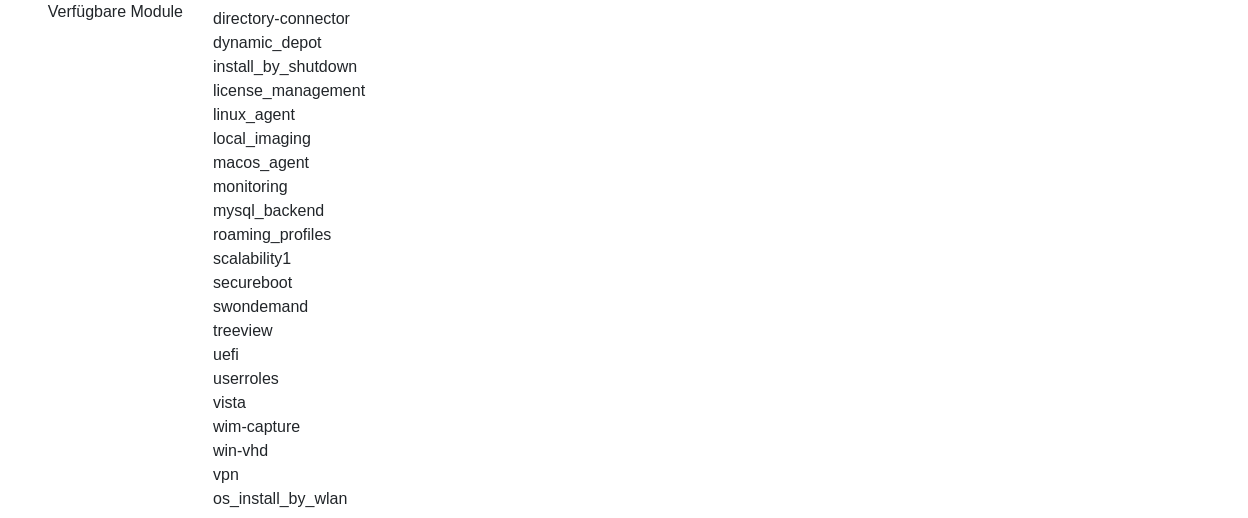
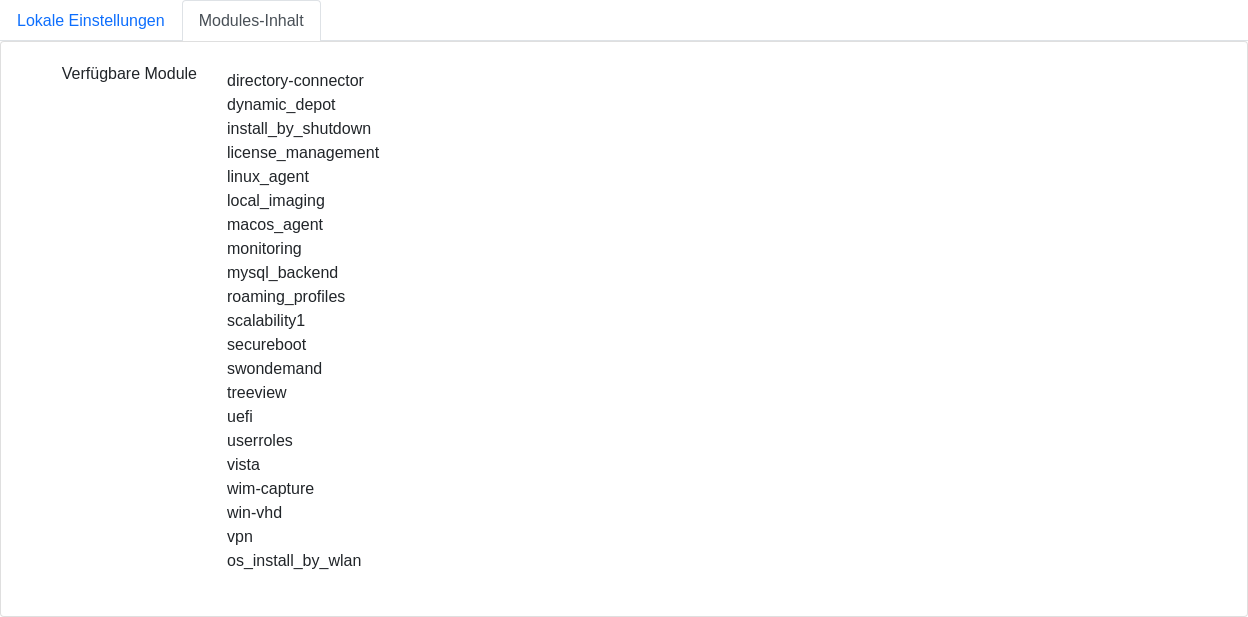
[chg] update opsi specific settings
Former-commit-id: 4b52c54a195441cb343072c94bac7e7d5c297b86

Changed region(s): [[0.0312, 0.0927, 0.3125, 0.9266], [0.0, 0.9575, 1.0, 1.0], [0.0, 0.0, 0.2812, 0.0927]]

diff --git a/opsiweb/scripts/take_screenshots4Doc.test.js b/opsiweb/scripts/take_screenshots4Doc.test.js
@@ -209,27 +209,27 @@ test.describe('Manage', () => {
   //   await page.evaluate((val) => { document.querySelector('.dependency').innerHTML = val }, de['title.dependencies'])
   //   await component.screenshot({ path: './screenshots/de/opsiweb_productproperties.png' })
   // })
-  test('Product Dependencies', async ({ page }) => {
-    await callStoryId(page, 'view-v-product-property', 'v-product-property')
-    await page.click('.nav-tabs .nav-link:not(.active)')
-    await (new Promise(resolve => setTimeout(resolve, 1000)))
-    const component = await page.locator('[data-testid="VProductProperty"]')
-    await page.setViewportSize({ width: 1280, height: 350 })
-    await page.evaluate((val) => { document.querySelector('.nav-title').innerHTML = val }, en['title.config'])
-    await page.evaluate((val) => { document.querySelector('.property').innerHTML = val }, en['title.properties'])
-    await page.evaluate((val) => { document.querySelector('.dependency').innerHTML = val }, en['title.dependencies'])
-    await page.evaluate((val) => { document.querySelector('.required').innerHTML = val }, en['table.fields.required'])
-    await page.evaluate((val) => { document.querySelector('.type').innerHTML = val }, en['table.fields.requiredType'])
-    await page.evaluate((val) => { document.querySelector('.tdtype').innerHTML = val }, en['table.fields.pre-required'])
-    await component.screenshot({ path: './screenshots/en/opsiweb_productdependencies.png' })
-    await page.evaluate((val) => { document.querySelector('.nav-title').innerHTML = val }, de['title.config'])
-    await page.evaluate((val) => { document.querySelector('.property').innerHTML = val }, de['title.properties'])
-    await page.evaluate((val) => { document.querySelector('.dependency').innerHTML = val }, de['title.dependencies'])
-    await page.evaluate((val) => { document.querySelector('.required').innerHTML = val }, de['table.fields.required'])
-    await page.evaluate((val) => { document.querySelector('.type').innerHTML = val }, de['table.fields.requiredType'])
-    await page.evaluate((val) => { document.querySelector('.tdtype').innerHTML = val }, de['table.fields.pre-required'])
-    await component.screenshot({ path: './screenshots/de/opsiweb_productdependencies.png' })
-  })
+  // test('Product Dependencies', async ({ page }) => {
+  //   await callStoryId(page, 'view-v-product-property', 'v-product-property')
+  //   await page.click('.nav-tabs .nav-link:not(.active)')
+  //   await (new Promise(resolve => setTimeout(resolve, 1000)))
+  //   const component = await page.locator('[data-testid="VProductProperty"]')
+  //   await page.setViewportSize({ width: 1280, height: 350 })
+  //   await page.evaluate((val) => { document.querySelector('.nav-title').innerHTML = val }, en['title.config'])
+  //   await page.evaluate((val) => { document.querySelector('.property').innerHTML = val }, en['title.properties'])
+  //   await page.evaluate((val) => { document.querySelector('.dependency').innerHTML = val }, en['title.dependencies'])
+  //   await page.evaluate((val) => { document.querySelector('.required').innerHTML = val }, en['table.fields.required'])
+  //   await page.evaluate((val) => { document.querySelector('.type').innerHTML = val }, en['table.fields.requiredType'])
+  //   await page.evaluate((val) => { document.querySelector('.tdtype').innerHTML = val }, en['table.fields.pre-required'])
+  //   await component.screenshot({ path: './screenshots/en/opsiweb_productdependencies.png' })
+  //   await page.evaluate((val) => { document.querySelector('.nav-title').innerHTML = val }, de['title.config'])
+  //   await page.evaluate((val) => { document.querySelector('.property').innerHTML = val }, de['title.properties'])
+  //   await page.evaluate((val) => { document.querySelector('.dependency').innerHTML = val }, de['title.dependencies'])
+  //   await page.evaluate((val) => { document.querySelector('.required').innerHTML = val }, de['table.fields.required'])
+  //   await page.evaluate((val) => { document.querySelector('.type').innerHTML = val }, de['table.fields.requiredType'])
+  //   await page.evaluate((val) => { document.querySelector('.tdtype').innerHTML = val }, de['table.fields.pre-required'])
+  //   await component.screenshot({ path: './screenshots/de/opsiweb_productdependencies.png' })
+  // })
   // test('Quick Save', async ({ page }) => {
   //   await callStoryId(page, 'view-v-settings-local-specific', 'v-settings-local-specific')
   //   const component = await page.locator('[data-testid="quicksave"]')
@@ -260,17 +260,22 @@ test.describe('Manage', () => {
   //   await page.screenshot({ path: './screenshots/de/opsiweb_selections.png' })
   // })
 })
-// test.describe('OPSI specific Settings', () => {
-//   // TODO: Settings page with Modules content selected
-// test('OPSI Modules', async ({ page }) => {
-//   await callStoryId(page, 'view-v-modules', 'v-modules')
-//   const component = await page.locator('[data-testid="VModules"]')
-//   await page.evaluate((val) => { document.querySelector('.modules').innerHTML = val }, en['form.modules.available'])
-//   await component.screenshot({ path: './screenshots/en/opsiweb_opsimodules.png' })
-//   await page.evaluate((val) => { document.querySelector('.modules').innerHTML = val }, de['form.modules.available'])
-//   await component.screenshot({ path: './screenshots/de/opsiweb_opsimodules.png' })
-// })
-// })
+test.describe('OPSI specific Settings', () => {
+  test('OPSI Modules', async ({ page }) => {
+    await callStoryId(page, 'view-v-settings', 'v-settings')
+    await page.click('.nav-tabs .nav-link:not(.active)')
+    await (new Promise(resolve => setTimeout(resolve, 1000)))
+    const component = await page.locator('[data-testid="VSettings"]')
+    await page.evaluate((val) => { document.querySelector('.localspecific').innerHTML = val }, en['form.localspecific'])
+    await page.evaluate((val) => { document.querySelector('.opsispecific').innerHTML = val }, en['form.modules'])
+    await page.evaluate((val) => { document.querySelector('.modules').innerHTML = val }, en['form.modules.available'])
+    await component.screenshot({ path: './screenshots/en/opsiweb_opsimodules.png' })
+    await page.evaluate((val) => { document.querySelector('.localspecific').innerHTML = val }, de['form.localspecific'])
+    await page.evaluate((val) => { document.querySelector('.opsispecific').innerHTML = val }, de['form.modules'])
+    await page.evaluate((val) => { document.querySelector('.modules').innerHTML = val }, de['form.modules.available'])
+    await component.screenshot({ path: './screenshots/de/opsiweb_opsimodules.png' })
+  })
+})
 // test.describe('GUI Settings', () => {
 //   test('Language', async ({ page }) => {
 //     await callStoryId(page, 'dropdown-dd-lang', 'dd-lang')
